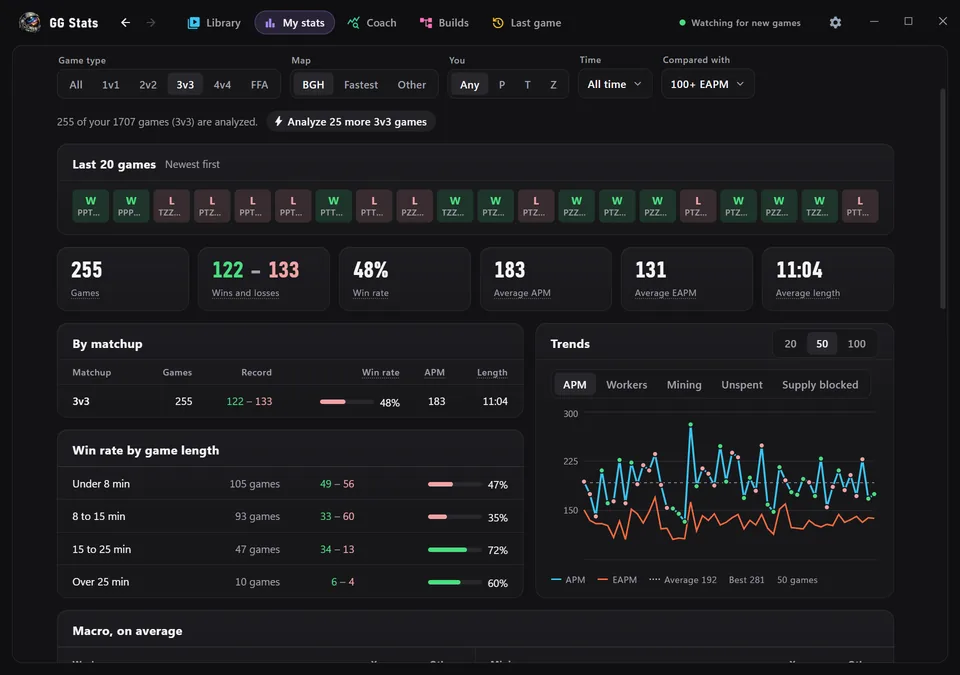
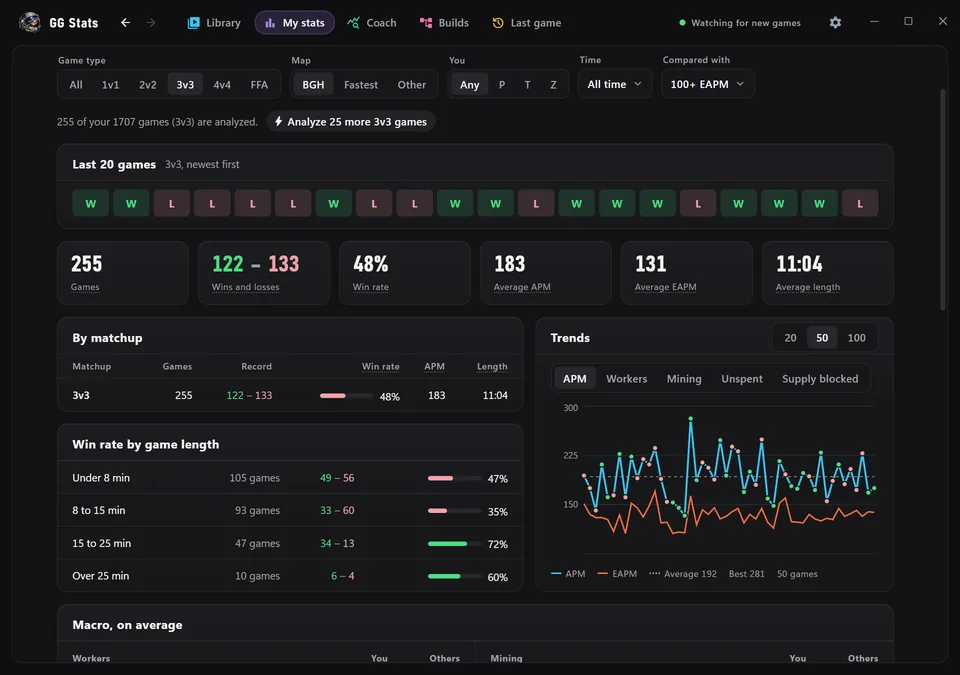
updates site and chips

diff --git a/site/index.html b/site/index.html
@@ -153,7 +153,10 @@
 
       /* The app's window, showing one screen at a time. */
       .window {
+        position: relative;
         display: grid;
+        /* Leaves sideways swipes to the slideshow and vertical ones to the page. */
+        touch-action: pan-y;
         width: min(100%, 1040px);
         aspect-ratio: 1920 / 1350;
         margin-top: 28px;
@@ -176,6 +179,53 @@
 
       .window img.shown {
         opacity: 1;
+      }
+
+      /* Previous and next, shown while the pointer is over the window. Phones swipe instead. */
+      .arrow {
+        position: absolute;
+        top: 50%;
+        display: grid;
+        place-items: center;
+        width: 44px;
+        height: 44px;
+        border-radius: 9999px;
+        background: rgb(11 11 11 / 0.72);
+        box-shadow: 0 0 0 1px rgb(255 255 255 / 0.12);
+        opacity: 0;
+        transform: translateY(-50%);
+        transition:
+          opacity 200ms ease,
+          background 200ms ease;
+      }
+
+      .arrow.previous {
+        left: 12px;
+      }
+
+      .arrow.next {
+        right: 12px;
+      }
+
+      .arrow svg {
+        width: 28px;
+        height: 28px;
+        fill: var(--on-surface);
+      }
+
+      .window:hover .arrow,
+      .arrow:focus-visible {
+        opacity: 1;
+      }
+
+      .arrow:hover {
+        background: var(--container-highest);
+      }
+
+      @media (hover: none) {
+        .arrow {
+          display: none;
+        }
       }
 
       /* One dot per screen. The current one stretches into a bar. */
@@ -339,7 +389,8 @@
 
       @media (prefers-reduced-motion: reduce) {
         .window img,
-        .tab::before {
+        .tab::before,
+        .arrow {
           transition: none;
         }
       }
@@ -460,6 +511,16 @@
           decoding="async"
           aria-hidden="true"
           alt="The same build as a timeline, with your steps against everyone else's." />
+        <button class="arrow previous" type="button" aria-label="Previous screen">
+          <svg viewBox="0 -960 960 960" aria-hidden="true">
+            <path d="M560-240 320-480l240-240 56 56-184 184 184 184-56 56Z" />
+          </svg>
+        </button>
+        <button class="arrow next" type="button" aria-label="Next screen">
+          <svg viewBox="0 -960 960 960" aria-hidden="true">
+            <path d="M504-480 320-664l56-56 240 240-240 240-56-56 184-184Z" />
+          </svg>
+        </button>
       </div>
 
       <div class="tabs" role="tablist" aria-label="Screens">
@@ -657,6 +718,8 @@
       }
 
       tabs.forEach((tab, i) => tab.addEventListener('click', () => pick(i)))
+      document.querySelector('.arrow.previous').addEventListener('click', () => pick(current - 1))
+      document.querySelector('.arrow.next').addEventListener('click', () => pick(current + 1))
 
       document.querySelector('[role="tablist"]').addEventListener('keydown', event => {
         const step = { ArrowRight: 1, ArrowLeft: -1 }[event.key]
@@ -681,6 +744,23 @@
         })
       }
       document.addEventListener('visibilitychange', schedule)
+
+      // A sideways swipe on the window moves to the next or previous screen.
+      const SWIPE_PX = 40
+      let swipeStart
+      panel.addEventListener('pointerdown', event => {
+        if (event.pointerType !== 'mouse') swipeStart = event
+      })
+      panel.addEventListener('pointercancel', () => {
+        swipeStart = undefined
+      })
+      panel.addEventListener('pointerup', event => {
+        if (!swipeStart) return
+        const dx = event.clientX - swipeStart.clientX
+        const dy = event.clientY - swipeStart.clientY
+        swipeStart = undefined
+        if (Math.abs(dx) >= SWIPE_PX && Math.abs(dx) > Math.abs(dy)) pick(current - Math.sign(dx))
+      })
 
       const copyButton = document.querySelector('.copy')
       const copyStatus = document.getElementById('copy-status')

diff --git a/client/my-stats/my-stats-panels.tsx b/client/my-stats/my-stats-panels.tsx
@@ -414,10 +414,18 @@ export function getResultWord(result: MyStatsGame['result'], t: TFunction) {
   }
 }
 
+/**
+ * What a chip in the recent games strip says under its result. Only 1v1 races fit a chip, so team
+ * games say their game type and leave the races to the tooltip.
+ */
+function getChipMatchupLabel(game: MyStatsGame, t: TFunction) {
+  return game.shape === '1v1' ? getMatchupLabel(game, t) : getShapeLabel(game.shape, t)
+}
+
 export function RecentGames({ games }: { games: ReadonlyArray<MyStatsGame> }) {
   const { t } = useTranslation()
   // The same matchup on every chip is noise; it's shown once in the title instead.
-  const matchups = new Set(games.map(game => getMatchupLabel(game, t)))
+  const matchups = new Set(games.map(game => getChipMatchupLabel(game, t)))
   const matchupsVary = matchups.size > 1
   return (
     <PaddedPanel>
@@ -459,7 +467,7 @@ export function RecentGames({ games }: { games: ReadonlyArray<MyStatsGame> }) {
               aria-label={`${getResultLetter(game.result, t)} ${getMatchupLabel(game, t)}`}
               onClick={() => push(getGameStatsUrl(game.gameId))}>
               <span>{getResultLetter(game.result, t)}</span>
-              {matchupsVary ? <RecentMatchup>{getMatchupLabel(game, t)}</RecentMatchup> : null}
+              {matchupsVary ? <RecentMatchup>{getChipMatchupLabel(game, t)}</RecentMatchup> : null}
             </RecentChip>
           </RecentTooltip>
         ))}
